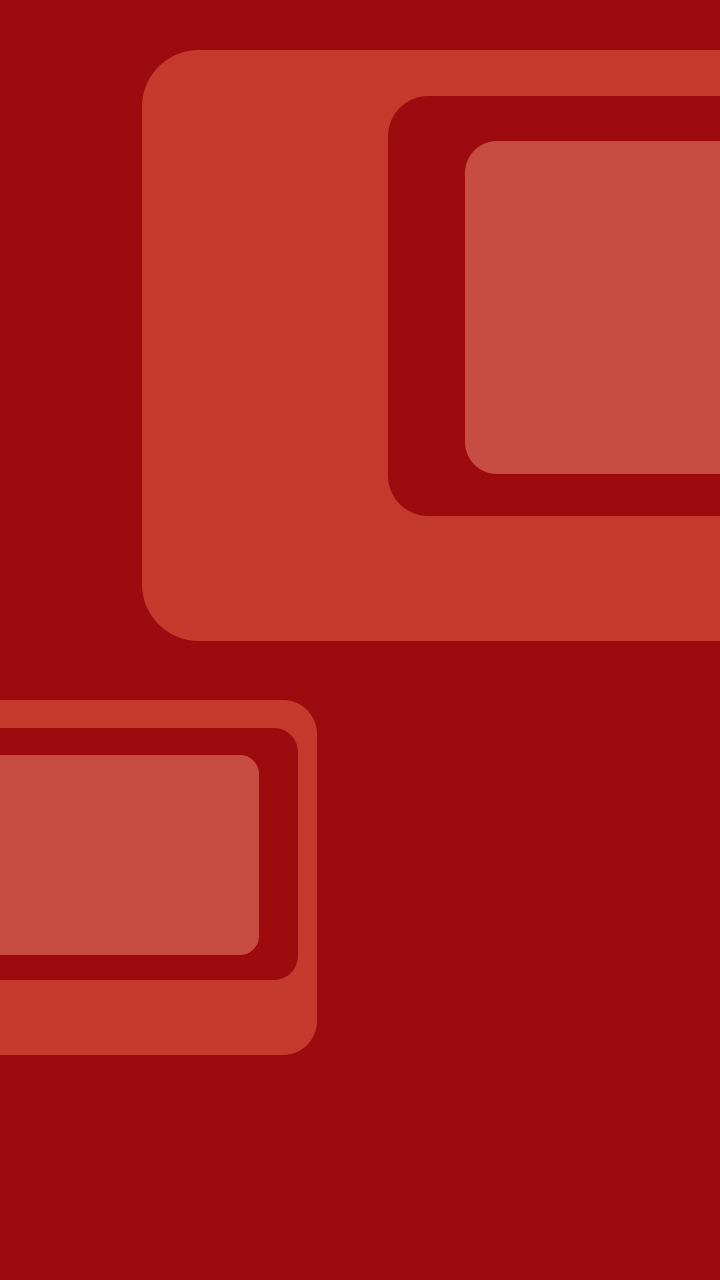
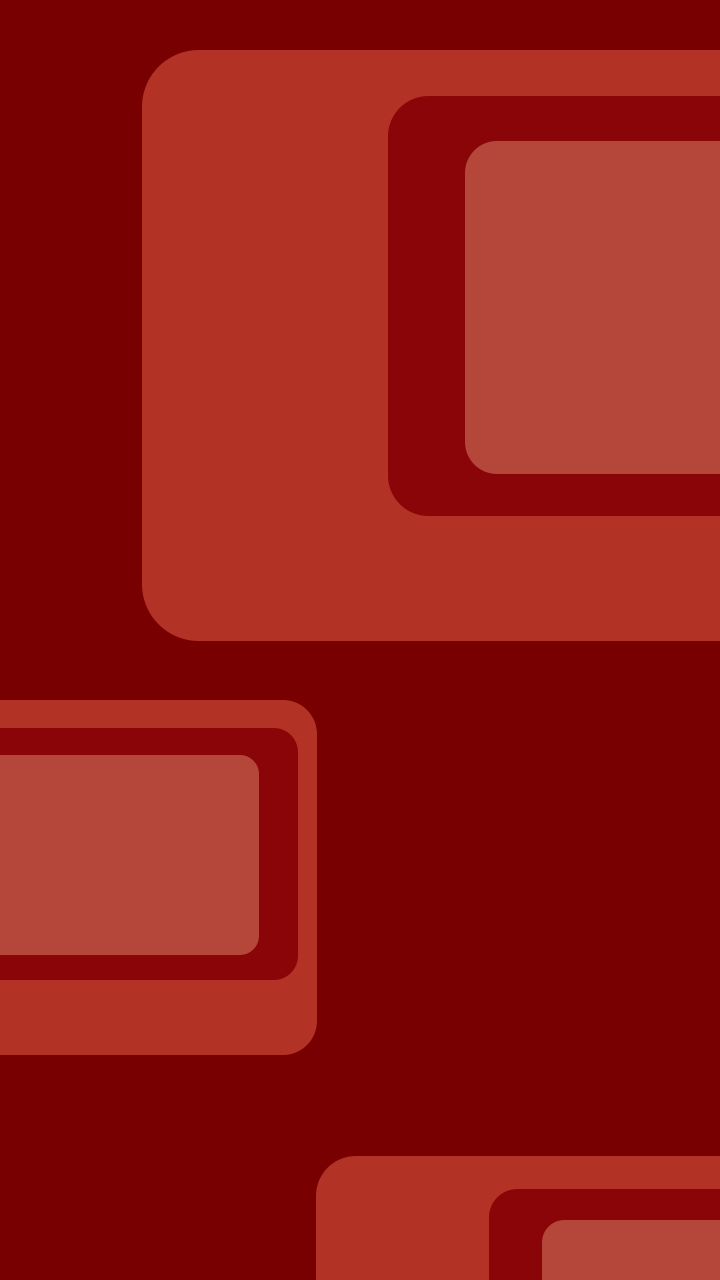
Change Scoring

diff --git a/src/main.js b/src/main.js
@@ -10,7 +10,7 @@ window.onload = function () {
 
         //console.log ( _gW, _gH, _scale );
 
-        let _bestScores = [ 0, 0, 0 ];
+        let _bestScores = { moves: [], time : [] };
 
         class Preloader extends Phaser.Scene {
 
@@ -91,10 +91,21 @@ window.onload = function () {
             }
             create () 
             {
+                
+                this.lvlCount = 3;
+
+                for ( let i=0; i<this.lvlCount; i++) {
+                    _bestScores.moves.push (0);
+                    _bestScores.time.push (0);
+                }
+
                 this.initHomeSound ();
+
                 this.initHomeInterface ();
 
-                this.getScores ();
+                this.initTable ();
+                
+                this.initScores ();
 
             }
             initHomeSound () {
@@ -109,9 +120,9 @@ window.onload = function () {
 
                 //set graphics..
 
-                const bg = this.add.image (_gW/2, _gH/2, 'bg').setScale (_gW/720);
+                let bg = this.add.image (_gW/2, _gH/2, 'bg').setScale (_gW/720);
 
-                const title = this.add.image (_gW/2, _gH/2 -_gH/2, 'title').setScale (_gW/720);
+                let title = this.add.image (_gW/2, _gH/2 -_gH/2, 'title').setScale (_gW/720);
 
                 this.tweens.add ({
                     targets : title,
@@ -121,7 +132,7 @@ window.onload = function () {
                     ease : 'Elastic'
                 });
 
-                const click = this.add.image (_gW/2, _gH/2, 'click').setScale (_gW/720);
+                let click = this.add.image (_gW/2, _gH/2, 'click').setScale (_gW/720);
 
 
                 //set player details..
@@ -135,72 +146,122 @@ window.onload = function () {
                 this.add.image ( _gW/2, ry, 'dude').setDisplaySize( rz, rz);
 
 
-                //set table..
-
-                const table = this.add.image (_gW/2, _gH/2, 'table').setScale (_gW/720);
-
-                let gp = _gW * 0.27,
-                    sX = _gW * 0.23,
-                    sY = _gH * 0.775;
-
-                this.scoresTxt = [];
-
-                for ( let i = 0; i < _bestScores.length ; i++ ) {
-
-                    let txt = this.add.text ( sX + i* gp, sY, '00', { color : '#333', fontSize : _gH * 0.07, fontFamily : 'Coda'  } ).setOrigin (0.5);
-
-                    this.scoresTxt.push ( txt );
-
-                }
-
-                let rect = this.add.rectangle ( _gW/2, _gH/2, _gW, _gH ).setInteractive ();
+                let rect = this.add.rectangle ( _gW/2, 448 * _scale, 550 * _scale, 90 * _scale );
             
                 rect.once ('pointerdown', function () {
                     
-                    //this.removeInteractive();
-
                     this.scene.music.play('clicka');
 
                     this.scene.initGame ();
-                
+            
                 });
+
+                this.time.delayedCall ( 1000, function () {
+                    rect.setInteractive();
+                },[], this );
 
 
             }
-            getScores () {
+            initTable () {
 
+                //set table..
+                this.tableContainer = this.add.container ( 0, 550 * _scale );
+
+                const table = this.add.image (_gW/2, _gH/2, 'table').setScale (_gW/720);
+
+                this.tableContainer.add ( table );
+
+                this.stats = {
+                    time : [],
+                    moves : []
+                }
+          
+                let itemW = 568 * _scale,
+                    itemH = 80 * _scale,
+                    itemX = 74 * _scale,
+                    itemY = 870 * _scale;
+
+                let txtConfiga = { color : '#333', fontSize : itemH * 0.5, fontFamily : 'Oswald'  };
+
+                for ( let i = 0; i < this.lvlCount ; i++ ) {
+
+                    let miniCont = this.add.container ( itemX, itemY + i * ( itemH ) ).setName ('item' + i );
+
+                    let bgRect = this.add.rectangle ( 0, 0, itemW, itemH, 0xffffff, 0.1 ).setOrigin (0);
+
+                    let lvl = this.add.text ( itemW * 0.11, itemH/2, (i+1) < 10 ? '0' + (i+1) : i+1, txtConfiga  ).setOrigin (0.5);
+
+                    let timetxt = this.add.text ( itemW * 0.64 , itemH/2, '000:00:00', txtConfiga  ).setName ('time' + i ).setOrigin (1,0.5);
+
+                    let movestxt = this.add.text ( itemW * 0.88, itemH/2, '9999', txtConfiga  ).setName ('moves' + i ).setOrigin (0.5);
+
+                    miniCont.add ([bgRect, lvl, timetxt, movestxt]);
+
+                    this.stats.time.push ( timetxt );
+
+                    this.stats.moves.push ( movestxt );
+                    
+                    this.tableContainer.add (miniCont);
+                }
+
+
+            }
+            initScores () {
+
+                this.facebook.getData([ 'bestScores', 'bestTime']);
+
+                this.facebook.once('getdata', function (data) {
+
+                    this.updateStats (data);
+
+                    this.tweens.add ({
+                        targets : this.tableContainer,
+                        y : 0,
+                        duration : 300,
+                        ease : 'Power2',
+                        delay : 300
+                    });
+
+                }, this);
+
+                this.facebook.once ('getdatafail', function ( error ) {
+
+                    console.log ('error saving data : homescreen');
+
+                });
+
+            }
+            updateStats ( data ) {
+
+                if ( data.hasOwnProperty ('bestScores') ) {
+
+                    let movesArr = data.bestScores.split(',');
+
+                    for ( var i=0; i< movesArr.length; i++) {
+        
+                        let num = parseInt ( movesArr[i] );
+    
+                        this.stats.moves [i].setText ( num < 10 ? '0' + num : num );
+                    }
+
+                    _bestScores.moves = movesArr;
+            
+                }
+
+                if ( data.hasOwnProperty ('bestTime') ) {
+
+                    let timeArr = data.bestTime.split(',');
+
+                    for ( var i=0; i<timeArr.length; i++) {
+        
+                        this.stats.moves [i].setText ( timeArr[i]);
+                    }
+
+                    _bestScores.time = timeArr;
+            
+                }
 
                
-
-                this.facebook.on('savestats', function (data) {
-
-                    //  Handle what the game should do after the stats have saved
-                
-                });
-                
-                this.facebook.on('savestatsfail', function (error) {
-                
-                    //  Handle what the game should do if the stats fail to save
-                
-                });
-
-                this.facebook.on('savedata', function (data) {
-
-                    //  Handle what the game should do when the data saves
-                    console.log ('save data successful..');
-                });
-                
-                this.facebook.on('savedatafail', function (error) {
-                
-                    //  Handle what the game should do if the data fails to save
-                    console.log ('error saving data..');
-                });
-
-
-                this.facebook.getData('plyrScore');
-                
-
-
 
             }
             initGame () {
@@ -212,6 +273,7 @@ window.onload = function () {
                 }, [], this);
                 
             }
+
         }
 
         class GameScreen extends Phaser.Scene {
@@ -401,7 +463,7 @@ window.onload = function () {
                         
                         const img = this.add.image (0,0, 'thumbs', 0 ).setScale (tileW/70 * 0.75).setVisible(true);
 
-                        //counter + 1
+                        //frames [counter] + 1
 
                         const txt = this.add.text ( tileW * 0.35, -tileW * 0.4, counter + 1, {fontSize:tileW*0.2, fontFamily:'Oswald', color:'#fff' }  ).setOrigin (1, 0);
                         txt.setShadow (0,2,'#f00', 2, false, true);
@@ -727,12 +789,39 @@ window.onload = function () {
             }
             registerScore () {
 
-                
-                let currentBest = _bestScores [ this.gmLvl - 1];
+                //bestScores & bestTime..
+
+                let currentBest = parseInt ( _bestScores.moves [ this.gmLvl - 1 ] );
 
                 if ( currentBest == 0 || this.moves < currentBest ) {
-                    _bestScores [this.gmLvl - 1] = this.moves;
+
+                    _bestScores.moves [this.gmLvl - 1] = this.moves;
+
+                    this.facebook.data.set ('bestScores', _bestScores.moves.toString() );
+
                 }
+
+                let currentBestTime = parseInt ( _bestScores.time [ this.gmLvl - 1 ] );
+
+                if ( currentBestTime == 0 || this.totalSeconds < currentBestTime ) {
+
+                    _bestScores.time [this.gmLvl - 1] = this.totalSeconds;
+
+                    this.facebook.data.set ('bestTime', _bestScores.time.toString() );
+
+                }
+               
+                this.facebook.on('savedata', function (data) {
+
+                    console.log ('save data successful : gamescreen', data );
+                
+                });
+                
+                this.facebook.on('savedatafail', function (error) {
+                
+                    console.log ('error saving data : gamescreen');
+                });
+
 
             }
             showPrompt ( end = false ) {
@@ -829,11 +918,10 @@ window.onload = function () {
 
                 this.promptScreen.add (img);
 
-                const configtxt = {
+                let configtxt = {
                     color : '#dedede',
                     fontFamily : 'Coda',
-                    //fontStyle : 'bold',
-                    fontSize : _gH * 0.07
+                    fontSize : 60 * _scale
                 }
 
                 let gp = _gW * 0.27,
@@ -843,7 +931,9 @@ window.onload = function () {
                 
                 for ( let i = 0; i < 3; i++ ) {
 
-                    let strNumbr = _bestScores[i] < 10 ? '0' + _bestScores[i] : _bestScores[i];
+                    let moves = parseInt(_bestScores.moves[i]);
+
+                    let strNumbr = moves < 10 ? '0' + moves : moves;
 
                     let txt = this.add.text ( sX + i* gp, sY, strNumbr, configtxt ).setOrigin (0.5);
 

diff --git a/index.html b/index.html
@@ -31,7 +31,7 @@
             }
             #game_div {
                 width: 100%;
-                max-width: 420px;
+                max-width: 430px;
             }
         </style>
 
